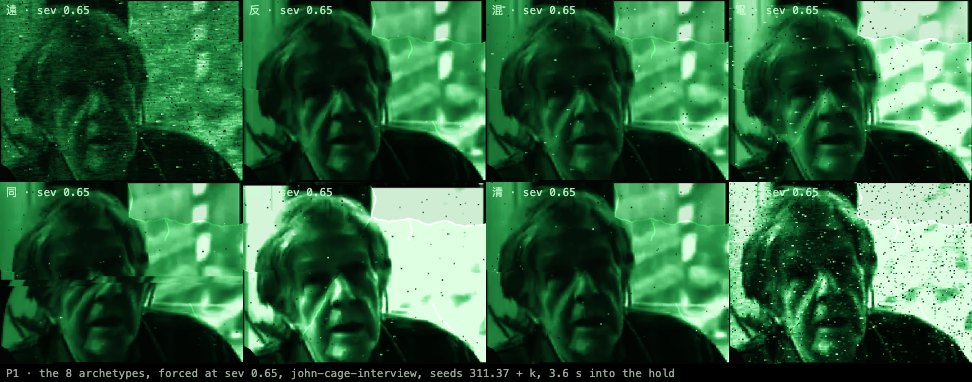
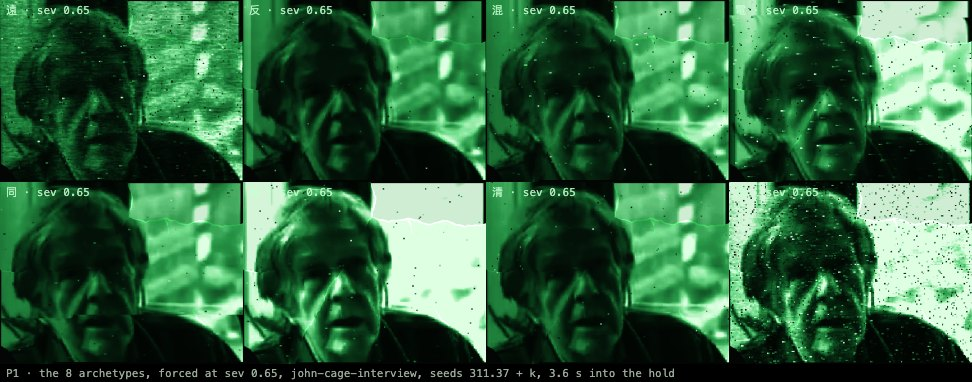
zankyo dev: P1 coder handoff (round 2), and the re-shot sheets, 遠 strips and lit-crack captures

diff --git a/art/zankyo/handoff/phase-P1-coder-r2.md b/art/zankyo/handoff/phase-P1-coder-r2.md
@@ -1,0 +1,298 @@
+# P1 — coder's handoff, round 2
+
+Branch `zankyo-picture-video`, worktree `/Users/tysonwelsh/Sites/municipal-sky-site-picture2`,
+served on **:8141** (`php -S 127.0.0.1:8141 router.php` from the worktree root; I used the
+critic's running server and did not start or stop any).
+
+| commit | what | VERSION |
+|---|---|---|
+| `14a1837` | item 1 (the lull), item 2 (the crack's run-weighted light), 伸 without an envelope, the probe's r2 checks and modes, the stable-shot fix in `tools/picture-crack-ab.js` | `2.1.0-rc.P2 — a buried picture now surfaces through the snow rather than clearing: now and then, at irregular times, and only on receptions that would stay buried without it; the crack's hairlines fade out along with their light` |
+| (this file) | handoff, and the re-shot sheets, strips and crack captures in `handoff/picture-sheets/P1-*` | dev-only |
+
+Files touched: `zk-picture.js`, `zk-set.js`, `_picture-probe.js`, `tools/picture-crack-ab.js`,
+`VERSION`. `zk-broadcast.js`, `zankyo-audio.js`, `zankyo.css`, `index.php`, `picture-lab.php`
+and `pj2-*.js` are untouched. Music identity: not checked, by the owner's ruling (2026-09-24).
+
+All numbers are from my runs at load average 27–42. The final full gate run is
+`node art/zankyo/_picture-probe.js p1` on `14a1837`'s tree. It is green on every check but one
+perf tail, and a perf-only re-run passes it. See **Perf** below.
+
+---
+
+## 1. The lull: now a surfacing, irregular, and only where it is needed. GREEN
+
+`node art/zankyo/_picture-probe.js lull` is **GREEN, 7 of 7 checks**. It is now part of `p1`.
+
+| check | rc.P1 (critic) | r2 |
+|---|---|---|
+| 遠 and 嵐 at sev 1 surface | 24/24 | **24/24**, worst window 1.00 s |
+| median share of hold near clean (SSIM ≥ 0.7), gate ≤ 0.15 | 0.38 | **0.07** (max 0.81, see below) |
+| sensitivity: lull off | 10/24 surface | 12/24 surface: the gate is live (see "instrument" for why 10 became 12) |
+| incidence over 20,000 drawn receptions, gate ≤ 35 % | 68.7 % | **31.6 %** |
+| CV of successive lull gaps over one 30 s hold, gate median ≥ 0.25 | 0 (one fixed period) | **median 0.729**, p5 0.380, min 0.040, over 6,329 lulled receptions |
+| start-to-start intervals, for the record | 0 | median CV 0.288, p5 0.163; 7–12 lulls per 30 s (median 9) |
+| the schedule's guarantee (≥ 0.6 s of lull flat in every 5 s window of the first 30 s) | — | worst **0.70 s** over 6,329 receptions |
+| sensitivity: rc.P1's fixed period | — | reads CV 0.000: caught |
+
+Incidence by archetype: 嵐 80 %, 遠 54 %, 反 38 %, 電 32 %, 混 20 %, 過 11 %, 同 9 %, 清 0 %.
+
+The critic's thresholds are kept as proposed: `NEAR_CLEAN_SHARE` 0.15, `LULL_SHARE` 0.35 and
+`LULL_CV` 0.25. The CV gate is on the median, and the p5 and minimum are reported. A reception
+whose 30 s draws only short rests reads a low CV, and the minimum of 0.040 is one such.
+
+The max near-clean share of 0.81 is 嵐·sev1·3. It is 0.75 near-clean with the lull **off**:
+two light kinds drawn at sev 1 are legible anyway.
+
+### (a) A surfacing, not a clearing
+
+rc.P1 pinned the carrier to 0.85 and eased every impairment by 70–88 %. Now, in `zk-set.js`
+(the hold):
+
+- **The carrier is lifted by `LULL.lift` 0.08 × the lull's height**, capped at 0.84. It is no
+  longer pinned to a level, so the drawn breath keeps moving underneath.
+- **Each impairment eases only as far as a target at the top of the lull**:
+  - the snow's spark density (`sourcePass`'s p) to `pT` 0.065;
+  - the fog's lost contrast, or a hot picture's crush, to `wT` 0.15;
+  - the echoes' summed amplitude to `gT` 0.12;
+  - the tear rate to `tT` 0.4.
+- **An impairment already under its target is left alone.** Whatever buried a reception, a lull
+  brings it up to about the same place: a face through a veil of snow. The most buried reception
+  eases the most, and a lightly buried one hardly changes.
+- **Dropouts inside a lull are knocked `dropEase` 0.9 less deep.**
+
+**Why targets and not a relative depth.** I tuned a relative ease first: depth 0.36–0.62,
+growing with burial, and lift 0.08–0.16. It could not pass both checks at once. The snow-bound
+遠s cleared, with a near-clean share of 0.14–0.19, while the worst 嵐s barely surfaced (worst
+window 0.2–0.7 s).
+
+The targets are one monotone knob:
+
+| pT | wT | gT | dropEase | near-clean | worst window |
+|---|---|---|---|---|---|
+| 0.05 | 0.12 | 0.15 | 0.7 | 0.24 | 1.0 s |
+| 0.06 | 0.14 | 0.15 | 0.7 | 0.13 | 0.6 s |
+| 0.07 | 0.16 | 0.15 | 0.7 | 0.06 | 0.6 s |
+| **0.065** | **0.15** | **0.12** | **0.9** | **0.07** | **1.0 s** (these) |
+
+`--lullk '{…}'` tries LULL constants in-page without an edit. It is dev only and never part of a gate.
+
+### (b) Irregular, deterministic, and still guaranteed
+
+`ZP.lullSchedule(L, until)`:
+
+- **What is drawn, and from what.** Lull n's rise (0.25–0.6 s), flat (0.7–1.5 s), fall
+  (0.3–0.8 s), height h (0.9–1) and the rest after it all come from `hashU(key, n, j)`.
+  - `key` is one draw on the reception's fork (`set:rx:<seed>`).
+  - The schedule is deterministic and unbounded, it makes no per-frame draws, and it is cached in
+    a WeakMap, so the character stays plain JSON.
+- **The rest is bimodal.**
+  - 40 % of the time it is short, at most 0.12 of the room left: a quick second rise.
+  - Otherwise it is long, at least 0.6 of the room.
+  - So the lulls come in pairs and long waits, not on a beat.
+- **The guarantee:**
+  - fall + rest + rise ≤ `gapMax` 3.6 s, and every flat is ≥ 0.7 s. So any 5 s window holds
+    ≥ 0.6 s of flat: 0.6 + 3.6 + 0.6 ≤ 5.
+  - The first flat starts by 3.3 s.
+  - The probe checks this from the schedule itself (worst 0.70 s).
+- Lull timing is per piece: a 戻/走 piece n ≥ 1 redraws on `set:rx:<seed>:<n>`, as before.
+
+### (c) Only where it is needed: `ZP.burial(ch) > BURY_LINE`
+
+The estimate is made from the character alone, at the carrier's resting level (lvl = 1 − breath.base):
+
+```
+3·p  +  0.5·grain·lvl  +  1.5·Σ|echo a|  +  2·(1 − wash gain)  +  (wash gain − 1)⁺  +  tear rate·min(1.5, jump/10)·lvl
+```
+
+- **The data** (`lullcal` mode, lull forced off): 226 receptions.
+  - 144 from `lullcal`: 40 drawn seeds × 3 reels, plus 遠/嵐 at sev 0.7–1.
+  - The lull mode's 24.
+  - 58 legibility receptions that drew no lull.
+- **The fit.** The weights come from a grid: the lowest incidence that still covers every
+  reception that failed to surface, or surfaced with a worst window under 0.8 s (38 receptions,
+  lowest score 0.951). `BURY_LINE` is 0.856, 10 % under that.
+- **What each term was added for:**
+  - the tear term, for an uncommon 同 carrying a full-strength secondary snow (two of them failed
+    the legibility gate on snow and tears together);
+  - the echo term, for a 反 whose three echoes summed to 0.57;
+  - the crush term, for a hot-washed 嵐.
+- **嵐 is no longer given a lull by name.** A storm of two light kinds is legible without one.
+- **VALIDATION ON FRESH SEEDS** (never used in the fit):
+  `lullcal --built --seed0 2001` gives **144/144 surface, worst window 0.8 s**, with 59/144 lulled.
+- **Caveat.** The legibility gate's own receptions are now partly training data, so on its own it
+  no longer tests the rule independently. The fresh-seed run is that test. The fit is a linear
+  score on 226 points, so a reception just under the line can still be borderline:
+  john-cage·102.37 was, at 1.074 on an earlier weighting. Keep the 10 % margin if the weights move.
+
+### The legibility gate (§6.3.3) after the change
+
+| | r2 | rc.91 |
+|---|---|---|
+| median hold SSIM (registered) | **0.7194** | 0.7069 |
+| the same, unregistered | 0.6972 | 0.7069 |
+| below the buried line (0.2) | 0/48 | — |
+| drawn receptions that surface | **48/48**, worst window 1.20 s | 48/48, worst 1.60 s |
+| 遠/嵐 at sev 1 that surface | **24/24**, worst window 1.00 s | — |
+
+**Unregistered, the tree is now below rc.91** (0.6972 against 0.7069). The critic noted in r1
+that unregistered also passed; it no longer does. The gate is the registered one (decision 6,
+accepted). The drop comes from spending the lull less: 33 of 48 receptions had one, and now
+fewer do. By archetype, median (range): 遠 0.636 (0.222–0.824), 混 0.763, 反 0.791, 電 0.767,
+同 0.772 (0.491–0.861), 嵐 0.743, 清 0.947.
+
+### The instrument: SSIM is now registered for the set's own 伸 scale too
+
+- **The failure.** 嵐·sev1·4 (影 0.87, 霞 0.88, 伸 1.0) never surfaced, lull or not. Its SSIM sat
+  at 0.3–0.48 even inside the lull.
+- **The cause.** The swell draws the raster up to ~4 % larger, and plain SSIM scores a picture
+  3 % larger as buried.
+  - With `--axes '{"swell":{"amt":0}}'` the same 24 went from 23/24 to 24/24.
+  - With the lull off, 10/24 became 12/24. That is why the sensitivity line reads 12/24 now.
+- **The fix.** A picture drawn 3 % larger is as legible as one in place ("legibility is not
+  position", decision 6). So `PAGE_MULTI` now scales the clean about the centre by the set's
+  **own** scale for that frame before registering position:
+  - the scale is `geo.sc × geo.sy` from `_dev.buffers()`, divided by the clean's own;
+  - it is read from the set, not searched;
+  - rc.91 has no 伸, so its scale is always 1 and its numbers do not move.
+- **Please check it.** This is a change to the instrument that made a gate pass, so the critic
+  should rule on it.
+
+### 伸 without an envelope (the critic's recommendation, taken)
+
+In the hold, `S.env.swell` is now 1. The picture's own level, through the lag, is 伸's only
+driver. `E["伸"]` is still drawn, so the fork is consumed alike.
+
+### The strips
+
+- `P1-strip-far-遠.jpg`, which replaces the r1 `.png`, and a new `P1-strip-far-遠-john-cage.jpg`:
+  - both are 遠 at sev 1, seed 505.37, with a tile every 0.5 s of a 12 s hold;
+  - each tile is captioned with its time, the lull level and the carrier;
+  - they were made with the new `strip` mode.
+- The face comes up through the snow at 2.8–4.3 s and 7.3–8.8 s (lull 0.73–0.93). It is buried
+  at 4.8–7.0 s and 9.3–11.3 s.
+- On ddr1 the surfaced frames read cleaner than on john-cage, because the ddr1 picture has more
+  contrast. The near-clean gate is measured on john-cage only. Owner or critic eyes on the ddr1
+  strip are welcome.
+
+---
+
+## 2. The crack's light follows the run weights. GREEN
+
+- **One list for both the edges and the light.** `wandered()` now builds `WP.runs` once. It uses
+  the same `runs(…, 3)`, the same `crng(900 + i)` draws in the mockup's order (swell, then lit)
+  and the same tip fade. `buildCrackSVG` and `buildPaths` both read it, so the SVG output is
+  byte-identical to r1.
+- **The mask is drawn run by run:**
+  - body `GLOW.wide·w` px at alpha `GLOW.wideA·w`;
+  - core `GLOW.core·w` px at alpha `w`.
+  - A deep run (w ≈ 1) is r1's 3.2 px at 0.45 and 1.1 px at 1. A hairline's last run
+    (w ≈ 0.06–0.1) is a tenth of that in both width and alpha.
+- **Butt caps.** Round caps overlap at every joint between two runs and bead the light.
+
+**The gate, in `_picture-probe.js crack`** (check d, new): the mask's mean alpha is sampled every
+0.5 px along each run's own centreline.
+
+| | result |
+|---|---|
+| last run ÷ first run, every dead-end hairline (i ≥ 4), all 4 patterns, gate ≤ 0.3 | **worst 0.030** over 12 hairlines; ratios 0.01–0.03, e.g. A4 0.921 → 0.015, D5 0.708 → 0.007 |
+| sensitivity: r1's one-weight mask put back (`_dev.maskFlat(true)`) | ratios 0.95–1.03, worst 1.031: caught |
+| `crack` (a–c) | all green: 566 dark frames with glow 0 in every channel; 0 of 920 frames over the cube; bbc1 lights 150/150 hold frames (max G 245); idle canvas crack excess ≤ beside for A–D; SVG alone max 0; both sensitivities caught |
+
+**The glow hook now reports premultiplied light** (`_dev.glow()`):
+
+- **Why.** `getImageData` un-premultiplies. At the hairlines' faint new alphas, an 8-bit colour
+  divided by an alpha of 2/255 read as up to 255, which is light that is not there. The "never
+  over the cube" check failed on 15 of 920 frames for that reason alone.
+- **The check now measures colour × alpha**, which is what `lighter` adds.
+- **The dark-frame check is not weakened.** Any stored value of 1 or more still reads as 1 or more.
+
+**`tools/picture-crack-ab.js`, the whole page, glow on against off:**
+
+| pattern | idle | dead | idle again | lit hold |
+|---|---|---|---|---|
+| A | **0** px | **0** | **0** | bbc1 927 px (mean ΔG +3.55); john-cage 2,202 px (mean ΔG +11.49) in one run |
+| D | 1 px, **−8** in all three channels | **0** | 1 px, −8 | john-cage 2,201 px, bbc1 908 px |
+| A, rc.91's stroke put back | **2,943** px, up to +18 G: caught | 2,943 | — | — |
+
+- **D's one pixel is darker in the glow-on shot, not lighter.** `lighter` cannot darken, so this
+  is rasterisation or compositing. No green is added on a dark tube.
+- **The tool is not fully deterministic at load 30–40.** I fixed one cause and one remains.
+  - **Fixed: the compositor lag.** Before the fix, one run's D idle differed over the whole tube
+    (175,917 px, the idle raster's breathing a few steps apart). The compositor handed back an
+    old frame. `shoot()` now waits for two identical consecutive shots.
+  - **Remaining: reel frames not decoded in time.** In one A run the glow-off side's john-cage
+    frame was never drawn (dark 177,321 of 178,608 px), so "cage" differed over the whole tube.
+    In the rc91 run, idle2 and bbc1 did the same. Idle and dead never depend on a reel, and they
+    were 0 px in every A run. This is carried as open item 3.
+- **Re-shot:** `P1-crack-lit-{A,D}-{john-cage-interview,bbc1-testcard-news-1979}.png`. The hairlines' light now thins
+  out with their edges.
+
+---
+
+## The rest of `p1` (final run)
+
+- **render: green, unchanged.** 雪 20.53/3.48, 影 .1047/.0015, 裂 .6665/.0735,
+  霞 .2531/.0003, 伸 1.168/.0127 (moved/floor).
+- **draws: green, unchanged.**
+  - Archetype shares are all within ±3.5 %; the uncommon tier is 0.1666.
+  - Seen-before is 18.61 %, and 今 reads 100 %.
+  - The lull no longer draws four numbers, only `key` and `off`, and its draws are the last on
+    the fork, so nothing else the fork draws has moved.
+- **phases: green.** 即常切, 探戻残 and 即走切 are identical to rc.91. For 浮断絶, loss goes from
+  84 to 9 frames.
+- **Perf.** The mean is green in every run. The dpr-2 p99 is borderline, and it is load:
+
+| run | load | mean dpr1 / dpr2 (tree; rc.91) | p99 dpr1 / dpr2, tree vs rc.91 | tail gate |
+|---|---|---|---|---|
+| p1 (earlier tree, same per-frame code) | 28 | 1.755 / 2.006 (1.519 / 1.467) | 5.8 vs 5.7 / 6.2 vs 6.4 | pass |
+| p1 (final) | 34–42 | 1.527 / 2.345 (1.428 / 1.408) | 4.0 vs 4.6 / **6.7 vs 5.2** | **fail** |
+| perfp1 re-run (final tree) | 33–38 | 1.547 / 1.975 (1.229 / 1.329) | 4.0 vs 4.2 / 5.9 vs 4.5 | pass (≤ 6) |
+
+- **What r2 adds per frame:** in the hold, a handful of multiplies and one pass over at most four
+  echoes for the lull's targets. The mask is built once per resize or pattern. Nothing new runs
+  in the composite.
+- The worst archetype mean was 1.70 ms in the final run. An earlier run at load ~28 read 3.19 ms
+  for 遠. It was the first archetype on a freshly loaded page, and the re-run read 2.03.
+- **The critic should read the tail at a quieter load.** It has passed 2 of 3 times.
+
+## Decisions I made (the owner was not available)
+
+1. **The lull eases to target levels, not by a relative depth** (see 1a). It is the only form I
+   found that passes both surfacing and near-clean with margin.
+2. **The lull goes by a fitted burial score, not by archetype.** 嵐 is not always lulled.
+3. **SSIM is registered for the set's own 伸 scale**, read from the set rather than searched.
+   This needs the critic's ruling.
+4. **The glow hook reports premultiplied light.**
+5. **I kept the critic's proposed thresholds:** 0.15, 0.35 and 0.25 (the last on the median).
+
+## Open items
+
+1. **Dark specks are still square** (the critic's recommendation, not taken). The snow was not
+   otherwise touched this round, and a change would move every gate. It is cheap to do in P2
+   with the other kinds.
+2. **Seen-before still uses the five-severity vector** (JND floor 0.1, 18.61 %). P2 should
+   widen it, as the critic advised. The lull adds variety that it does not count.
+3. **`tools/picture-crack-ab.js`: the lit-hold rows are not reliable under load.** Sometimes the
+   reel's frame is not decoded when the step draws. Idle and dead are reliable. The fix would be
+   to wait for `requestVideoFrameCallback` (or step until `src` is non-black) before shooting.
+4. **The perf tail at dpr 2** passes in 2 of 3 runs at load 28–42 (see above).
+5. **The force hook's "consume the fork alike" comment** is still stronger than the code (critic
+   r1). It is harmless; I left it for P2's force work.
+6. **Carried:**
+   - WebKit is unrun (QF's).
+   - `zk-broadcast.js`'s "29 TUNED reel(s)" `console.error` fires on every load. It is not the
+     picture's.
+
+## Re-run
+
+```
+cd /Users/tysonwelsh/Sites/municipal-sky-site-picture2
+php -S 127.0.0.1:8141 router.php                                        # if :8141 is down
+node art/zankyo/_picture-probe.js p1 --out <dir>                         # ~15 min at load 30; now includes lull
+node art/zankyo/_picture-probe.js lull --out <dir>                       # ~1 min
+node art/zankyo/_picture-probe.js crack --out <dir>                      # includes d. the run-weight mask check
+node art/zankyo/_picture-probe.js lullcal --built --seed0 2001 --out <dir>   # fresh-seed validation of the lull rule (~5 min)
+node art/zankyo/_picture-probe.js lullcal --out <dir>                    # the lull-off calibration data (lullcal.json)
+node art/zankyo/_picture-probe.js strip --force '{"archetype":"遠","sev":1}' --reel 2 --seed 505.37 --name P1-strip-far-遠 --out <dir>
+node art/zankyo/tools/picture-crack-ab.js http://127.0.0.1:8141/art/zankyo/ <dir> 0 on     # and 3 on; 0 rc91 for the sensitivity
+```
